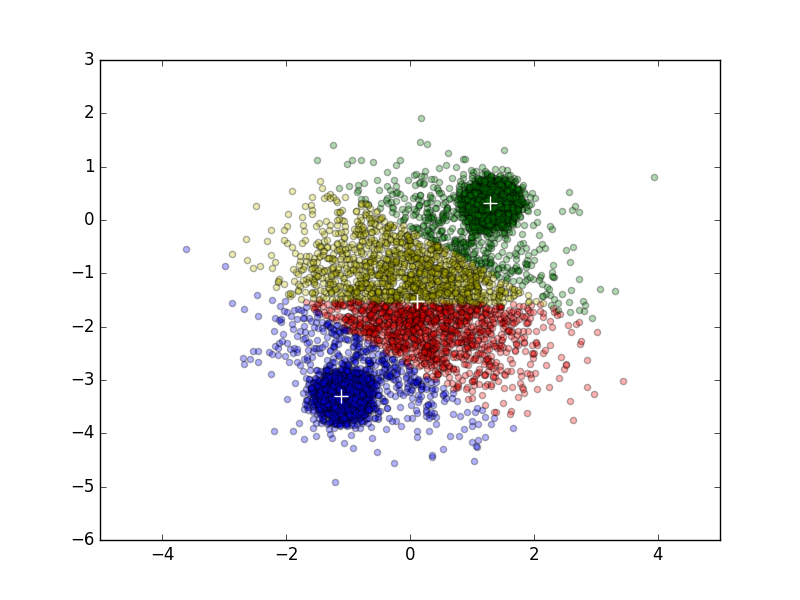
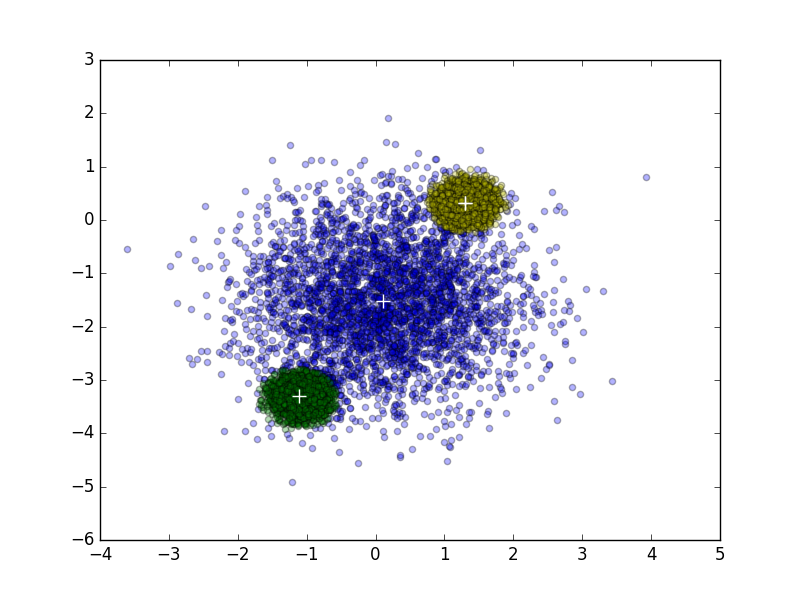
revise the cluster ploting method

diff --git a/ML_HW3/MoG.py b/ML_HW3/MoG.py
@@ -1,20 +1,22 @@
 import numpy as np
 import tensorflow as tf
 import plot_generator as plot
-import Euclid_Distance as ed # import functions from local
+import Euclid_Distance as ed 
 from utils import *
+import Log_Posterior as LPosterior
 
 pi = np.pi
 class MoG:
     def __init__(self, file_name):
         self.file_name = file_name
 
-    def cal_min_idx(self, X, Y, D):
+    def cal_min_idx(self, X, Y, sigma, pi_k, D):
         X_input = tf.constant(X, dtype=tf.float32)
         Y_input = tf.constant(Y, dtype=tf.float32)
-        ED_min = ed.Euclid_Distance(X_input, Y_input, D)
-        ed_min = ED_min.cal_Euclid_dis()
-        min_idx = tf.argmin(ed_min, 1)
+        sigma_input = tf.constant(sigma, dtype=tf.float32)
+        LP = LPosterior.Log_Posterior(X_input, Y_input, sigma_input, pi_k, D)
+        post = LP.cal_log_posterior()        
+        min_idx = tf.argmax(post, 1)
         return min_idx
 
     def cal_loss(self, X, Y, D, log_pi, exp_sigma):
@@ -27,14 +29,9 @@ class MoG:
     def cluster(self, K, D, B, portion=0):
         X_data = np.load(self.file_name)  
 
-        # Normalize the training data
         seperation = int((1-portion)*B)
         self.validation = X_data[seperation:,:]
         self.train = X_data[:seperation,:]
-
-        # mean = X_train.mean()
-        # dev = X_train.std()
-        # X_train = (X_train - mean) / dev  
 
         # Initialize centoroid, pi_k and sigma
         X = tf.placeholder(tf.float32, [None, D], name='dataset')
@@ -51,7 +48,7 @@ class MoG:
         epsilon = 1e-5
         beta1 = 0.9
         beta2 = 0.99
-        training_epochs = 3000
+        training_epochs = 5000
 
         optimizer = tf.train.AdamOptimizer(learning_rate, beta1, beta2, epsilon)
         train_op = optimizer.minimize(loss)
@@ -63,29 +60,29 @@ class MoG:
         res_loss = []
         record, loss_prv = 0, 0
         for epoch in range(training_epochs):
-            _, loss_np, mu_final, pi_np, sigma_square, pi_log= sess.run([train_op, loss, Y, pi_k, exp_sigma, log_pi], feed_dict={X: self.train})
-            res_loss.append(loss_np)
-            if record == 50:
+            _, loss_train, mu_final, pi_final, sigma_square, pi_log = sess.run([train_op, loss, Y, pi_k, exp_sigma, log_pi], feed_dict={X: self.train})
+            res_loss.append(loss_train)
+            if record == 100:
                 break
-            elif loss_prv == loss_np:
+            elif loss_prv == loss_train:
                 record += 1
             else:
-                loss_prv = loss_np
-            '''
-            if(epoch % 100 == 0):
+                loss_prv = loss_train
+            
+            if(epoch % 200 == 0):
                 print 'epoch', epoch
-                print 'loss', loss_np
-            '''
+                print 'loss', loss_train
+            
         print 'K =', K
-        print 'loss_training:', loss_np
+        print 'loss_training:', loss_train
         print 'centoroid:', mu_final        
-        pi_np = tf.exp(pi_np) / tf.reduce_sum(tf.exp(pi_np))
+        pi_np = tf.exp(pi_final) / tf.reduce_sum(tf.exp(pi_final))
         print 'pi_k:', pi_np.eval()
         print 'sigma_square:', sigma_square
         
-        min_idx = self.cal_min_idx(self.train, mu_final, D).eval()
+        min_idx = self.cal_min_idx(self.train, mu_final, np.sqrt(sigma_square), pi_np, D).eval()
 
-        return res_loss, X_data, mu_final, min_idx, sigma_square, pi_log
+        return res_loss, X_data, mu_final, min_idx, sigma_square, pi_log, pi_np.eval()
 
 '''
 K = 3
@@ -93,7 +90,7 @@ B = 10000
 D = 2
 
 mog = MoG("data2D.npy")
-res_loss, X_plot, mu_plot, min_idx, _, _ = mog.cluster(K, D, B)
+res_loss, X_plot, mu_plot, min_idx, _, _, pi_1 = mog.cluster(K, D, B)
 
 plot.plot_loss(res_loss)
 plot.plot_cluster(min_idx, X_plot, mu_plot, K)

diff --git a/ML_HW3/MoG_validation.py b/ML_HW3/MoG_validation.py
@@ -1,37 +1,37 @@
 import numpy as np
 import tensorflow as tf
 import plot_generator as plot
-import Euclid_Distance as ed # import functions from local
+import Euclid_Distance as ed 
 from utils import *
 import MoG as mog
 
 def MoG_validation(K):
 	MoG_valid = mog.MoG("data2D.npy")
-	_, X_data, mu, _, sigma_2, log_pi = MoG_valid.cluster(K, D, B, 1.0/3.0)
+	_, X_data, mu, _, sigma_2, log_pi, pi_np = MoG_valid.cluster(K, D, B, 1.0/3.0)
 
 	loss_valid = MoG_valid.cal_loss(MoG_valid.validation.astype(np.float32), mu, D, log_pi, sigma_2)
-	min_idx = MoG_valid.cal_min_idx(X_data, mu, D)
+	min_idx = MoG_valid.cal_min_idx(X_data, mu, np.sqrt(sigma_2), pi_np, D)
 
-	min_idx_train = MoG_valid.cal_min_idx(MoG_valid.train.astype(np.float32), mu, D)
-	min_idx_validation = MoG_valid.cal_min_idx(MoG_valid.validation.astype(np.float32), mu, D)
+	# min_idx_train = MoG_valid.cal_min_idx(MoG_valid.train.astype(np.float32), mu, np.sqrt(sigma_2), pi_np,D)
+	# min_idx_validation = MoG_valid.cal_min_idx(MoG_valid.validation.astype(np.float32), mu, np.sqrt(sigma_2), pi_np,D)
 
 
 	data = tf.ones(shape = [B,])
 	division = tf.unsorted_segment_sum(data, min_idx, K, name=None)
 
-	data_train = tf.ones(shape = [int(B * 2/3),])
-	division_train = tf.unsorted_segment_sum(data_train, min_idx_train, K, name=None)
+	# data_train = tf.ones(shape = [int(B * 2/3),])
+	# division_train = tf.unsorted_segment_sum(data_train, min_idx_train, K, name=None)
 
-	data_validation = tf.ones(shape = [int(10000 - B * 2/3),])
-	division_validation = tf.unsorted_segment_sum(data_validation, min_idx_validation, K, name=None)
+	# data_validation = tf.ones(shape = [int(10000 - B * 2/3),])
+	# division_validation = tf.unsorted_segment_sum(data_validation, min_idx_validation, K, name=None)
 	with tf.Session():
 		print 'loss_validation:', loss_valid.eval()
 		print 'Total Proportion:', division.eval()/10000
-		print 'Training Proportion:', division_train.eval()/(B * 2/3)
-		print 'validation Proportion', division_validation.eval()/(10000 - B * 2/3)
+		# print 'Training Proportion:', division_train.eval()/(B * 2/3)
+		# print 'validation Proportion', division_validation.eval()/(10000 - B * 2/3)
 		plot.plot_cluster(min_idx.eval(), X_data, mu, K)
-		plot.plot_train_cluster(min_idx_train.eval(), MoG_valid.train, mu, K)
-		plot.plot_validation_cluster(min_idx_validation.eval(), MoG_valid.validation, mu, K)
+		# plot.plot_train_cluster(min_idx_train.eval(), MoG_valid.train, mu, K)
+		# plot.plot_validation_cluster(min_idx_validation.eval(), MoG_valid.validation, mu, K)
 
 
 B = 10000

diff --git a/ML_HW3/k_mean.py b/ML_HW3/k_mean.py
@@ -23,7 +23,6 @@ class k_mean:
         correspond_cluster = tf.gather(Y,cluster)
         offset = tf.sub(X, correspond_cluster)
         loss = tf.reduce_sum(tf.square(offset))
-        
         return loss, cluster
     
     def cluster(self, K, D, B, portion=0):  
@@ -35,32 +34,21 @@ class k_mean:
         '''
         seperation = int((1-portion)*B)
         self.validation = X_data[seperation:,:]
-        X_data = X_data[:seperation,:]
+        X_train = X_data[:seperation,:]
         # print portion,seperation, X_data.shape, validation.shape
         
-        # Normailize the training data        
-        mean = X_data.mean()
-        dev = X_data.std()
-        X_tmp = (X_data - mean)/ dev 
-
         '''
         Initialize the value of centers of 3 clusters 
         in 2 indep normal distribution
         '''
 
         X = tf.placeholder(tf.float32, [None, D], name='dataset')
-
-        Y = tf.Variable(tf.random_normal(shape = (K,D), stddev = 1.0, dtype=tf.float32))
+        Y = tf.Variable(tf.random_normal(shape = (K,D), dtype=tf.float32))
 
         loss, cluster = self.cal_loss( X, Y, D)
-        '''
-        print cluster.eval()
-        print offset.eval()
-        print loss.eval()
-        '''
 
         # Set up the hyperparameters
-        learning_rate =  0.001	
+        learning_rate =  0.001
         epsilon = 1e-5
         beta1 = 0.9
         beta2 = 0.99
@@ -77,8 +65,8 @@ class k_mean:
         min_idx = []
         record, loss_prv = 0, 0
         for epoch in range(training_epochs):
-            loss_np, min_idx, mu, _ = sess.run([loss, cluster, Y, train_op], feed_dict={X: X_tmp})
-            if record == 200:
+            loss_np, min_idx, mu, _ = sess.run([loss, cluster, Y, train_op], feed_dict={X: X_train})
+            if record == 100:
             	break
             elif loss_prv == loss_np:
             	record += 1
@@ -90,7 +78,7 @@ class k_mean:
             	print loss_np
             	print Y.eval()
             '''
-        return res_loss, min_idx, X_data, mu, mu*dev+mean
+        return res_loss, min_idx, X_data, mu
 '''     
 K = 3 # Define 3 clusters
 D = 2 #len(mean) # numbers of element per each dataset
@@ -98,7 +86,7 @@ B = 10000
                 
 km = k_mean("data2D.npy")
 # Required argument: numbers of clusters, dimensions of points, numbers of points
-res_loss, min_idx, X_data, mu_normal, mu= km.cluster(K, D, B, 1.0/3.0)
+res_loss, min_idx, X_data, mu= km.cluster(K, D, B, 1.0/3.0)
 
 plot.plot_loss(res_loss)
 plot.plot_cluster(min_idx, X_data, mu, K)

diff --git a/ML_HW3/Log_Probability.py b/ML_HW3/Log_Probability.py
@@ -26,10 +26,10 @@ class Log_Probability:
         return result
 
     def cal_Term1(self, sigma):
-        return -tf.log(tf.sqrt(2 * pi * tf.square(sigma)))
+        return -0.5*tf.log(2 * pi * tf.square(sigma))
 
     def cal_Term2(self, ed, sigma):
-        return -0.5 * tf.div(ed, tf.square(sigma))
+        return tf.div(-ed, 2 * tf.square(sigma))
 
     def cal_log_probability(self):
     	ed = self.cal_Euclid_dis()
@@ -45,19 +45,21 @@ class Log_Probability:
 '''
 # test case
 # logN(x;mu, sig^2) = - log(square(sqrt(2*pi*sig^2))) - 1/2*sgi^2 * ((x-mu)(x-mu).T)
-# X = np.array([[1,2], [2,3], [3,4]], dtype = np.float32)
-X_data = np.load('data2D.npy')
-X = tf.placeholder(tf.float32, [None, 2], name='dataset')
+X = np.array([[1,2], [2,3], [3,4]], dtype = np.float32)
+# X_data = np.load('data2D.npy')
+# X = tf.placeholder(tf.float32, [None, 2], name='dataset')
 Y = np.array([[0,1], [1,2],[0,2]], dtype = np.float32)
 sigma = tf.constant([[0.4, 0.5, 0.3]], dtype = tf.float32)	
 pi = np.pi
 
 LP = Log_Probability(X, Y, sigma, 2)
 result = LP.cal_log_probability()
+with tf.Session():
+    print result.eval()
 
-sess = tf.Session()
-res = sess.run([result], feed_dict={X:X_data})
-print res
+# sess = tf.Session()
+# res = sess.run([result], feed_dict={X:X_data})
+# print res
 
 # with tf.Session():
 # 	LP = Log_Probability(X, Y, sigma, 2)

diff --git a/ML_HW3/k_mean_validation.py b/ML_HW3/k_mean_validation.py
@@ -10,16 +10,15 @@ import k_mean as km
 import plot_generator as plot
 
 def k_mean_validation(K):
-    #K = 5 # Define 3 clusters
-    D = 2 #len(mean) # numbers of element per each dataset
+    D = 2 
     B = 10000
                     
     KM = km.k_mean("data2D.npy")
     # Required argument: numbers of clusters, dimensions of points, numbers of points
-    _, segment_ids, X_tmp, mu_normal, mu= KM.cluster(K, D, B, 1.0/3.0)
+    _, segment_ids, X_data, mu= KM.cluster(K, D, B, 1.0/3.0)
     
     # Take the validation set as input to calculate the loss from cluster centers
-    loss,_ = KM.cal_loss(KM.validation.astype(np.float32), mu_normal, D)
+    loss,_ = KM.cal_loss(KM.validation.astype(np.float32), mu, D)
     with tf.Session():
         print "K =",K,":",loss.eval()
     

diff --git a/ML_HW3/Log_Posterior.py b/ML_HW3/Log_Posterior.py
@@ -1,7 +1,7 @@
 import tensorflow as tf
 import numpy as np
 from utils import *
-
+pi = np.pi
 class Log_Posterior:
     def __init__(self, X, Y, sigma, pi_k, D):
         self.X = X
@@ -53,7 +53,7 @@ X = tf.placeholder(tf.float32, [None, 2], name='dataset')
 Y = tf.constant([[0,1], [1,2], [2,3]], dtype = tf.float32)
 sigma = tf.constant([[0.3, 0.2, 0.5]], dtype = tf.float32)
 pi_k = tf.constant([[0.4, 0.3, 0.3]], dtype = tf.float32)    
-pi = np.pi
+
 
 LP = Log_Posterior(X, Y, sigma, pi_k, 2)
 result = LP.cal_log_posterior()
@@ -61,6 +61,7 @@ result = LP.cal_log_posterior()
 sess = tf.Session()
 res = sess.run([result], feed_dict={X:X_data})
 print res
+
 
 # with tf.Session():
 #     LP = Log_Posterior(X,Y,sigma,pi_k,2)

diff --git a/ML_HW3/k_comparison.py b/ML_HW3/k_comparison.py
@@ -15,15 +15,15 @@ def k_comparison(K):
                     
     KM = km.k_mean("data2D.npy")
     # Required argument: numbers of clusters, dimensions of points, numbers of points
-    _, segment_ids, X_tmp, mu_normal, mu= KM.cluster(K, D, B)
+    _, segment_ids, X_data, mu= KM.cluster(K, D, B)
     
     
     data = tf.ones(shape = [B,])
-    
     division = tf.unsorted_segment_sum(data, segment_ids, K, name=None)
+    
     with tf.Session():
         print "K =",K,":",division.eval()/10000
-        plot.plot_cluster(segment_ids, X_tmp, mu, K)
+        plot.plot_cluster(segment_ids, X_data, mu, K)
     
     
 for i in range(1, 6):
